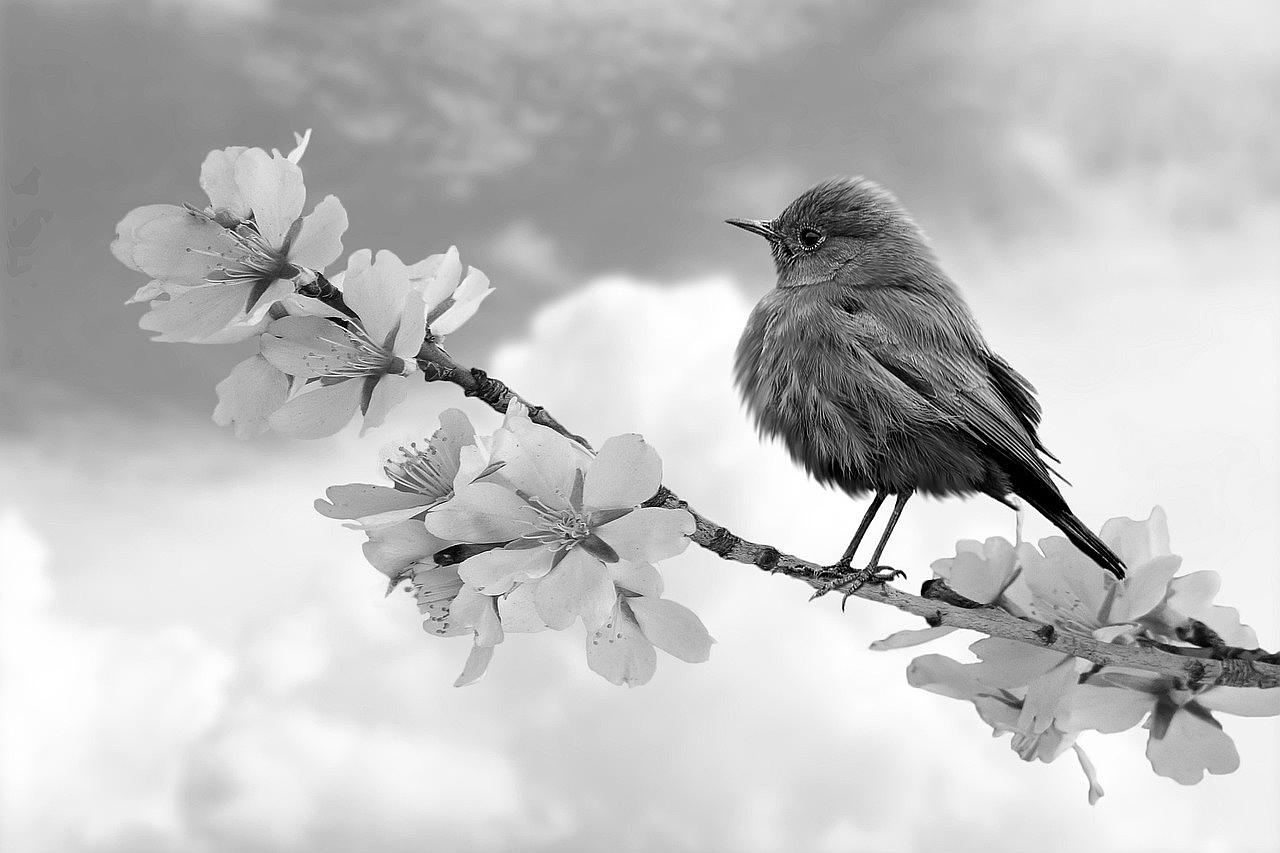
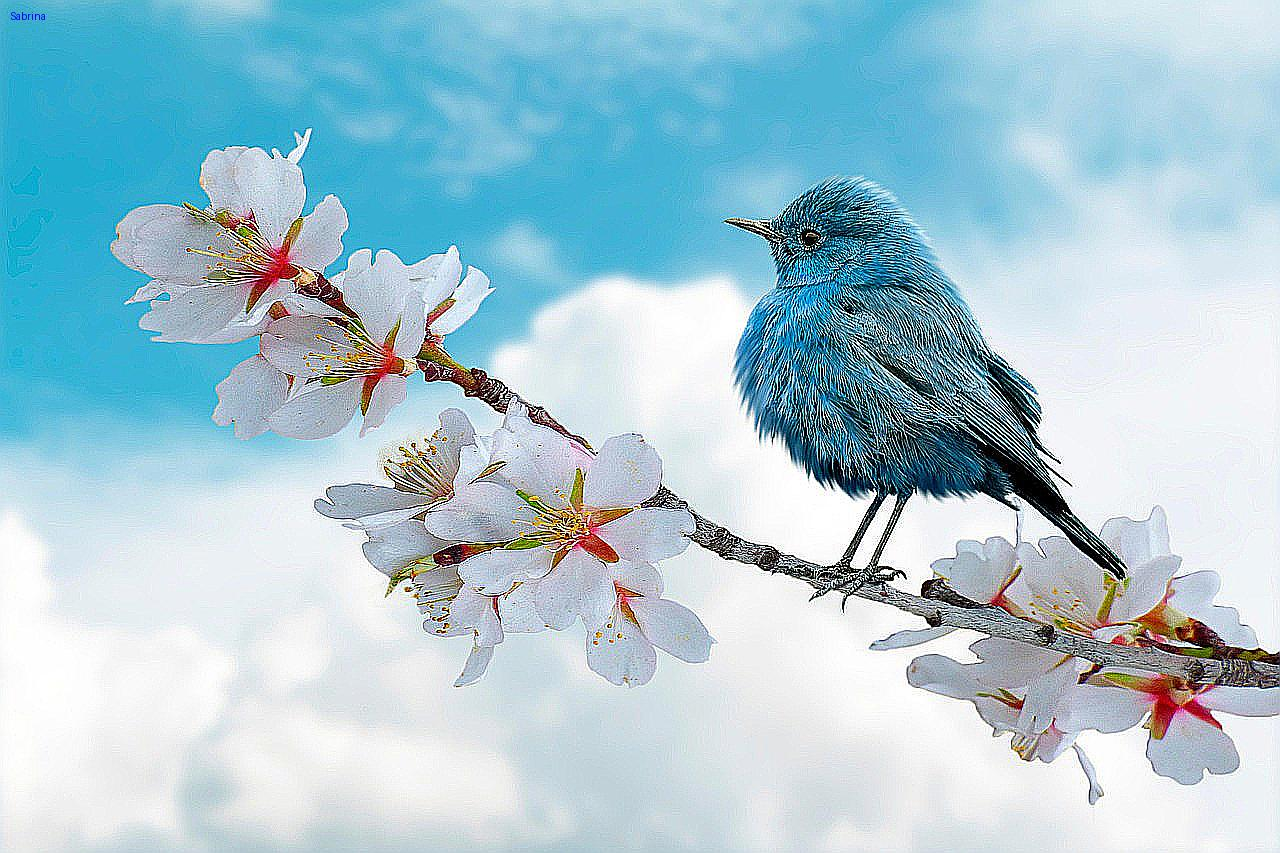
update

diff --git a/image.py b/image.py
@@ -1,4 +1,4 @@
-from PIL import Image, ImageEnhance, ImageFilter
+from PIL import Image, ImageFilter, ImageDraw, ImageFont
 import os
 
 path = '.'
@@ -9,11 +9,15 @@ if not os.path.exists(pathOut):
 
 
 for filename in os.listdir(path):
-    if not filename.lower().endswith(('.jpg', '.jpeg', 'png')):
+    if not filename.lower().endswith(('.jpg', '.jpeg', '.png')):
         continue
-    
+
     img = Image.open(f"{path}/{filename}")
-    edit= img.filter(ImageFilter.SHARPEN).convert("L")
-    
-    clean_name= os.path.splitext(filename)[0]
-    edit.save(f"{pathOut}/{clean_name}_edited.jpg")
+    edit = img.filter(ImageFilter.SHARPEN).convert("RGB")  # "L"- grey
+    edit2 = edit.resize((2000, 1300))
+    edit3 = edit.filter(ImageFilter.EDGE_ENHANCE)
+    clean_name = os.path.splitext(filename)[0]
+
+    draw = ImageDraw.Draw(edit3)
+    draw.text((10,10),"Sabrina",fill=(0, 0, 255))
+    edit3.save(f"{pathOut}/{clean_name}_edited.jpg")
